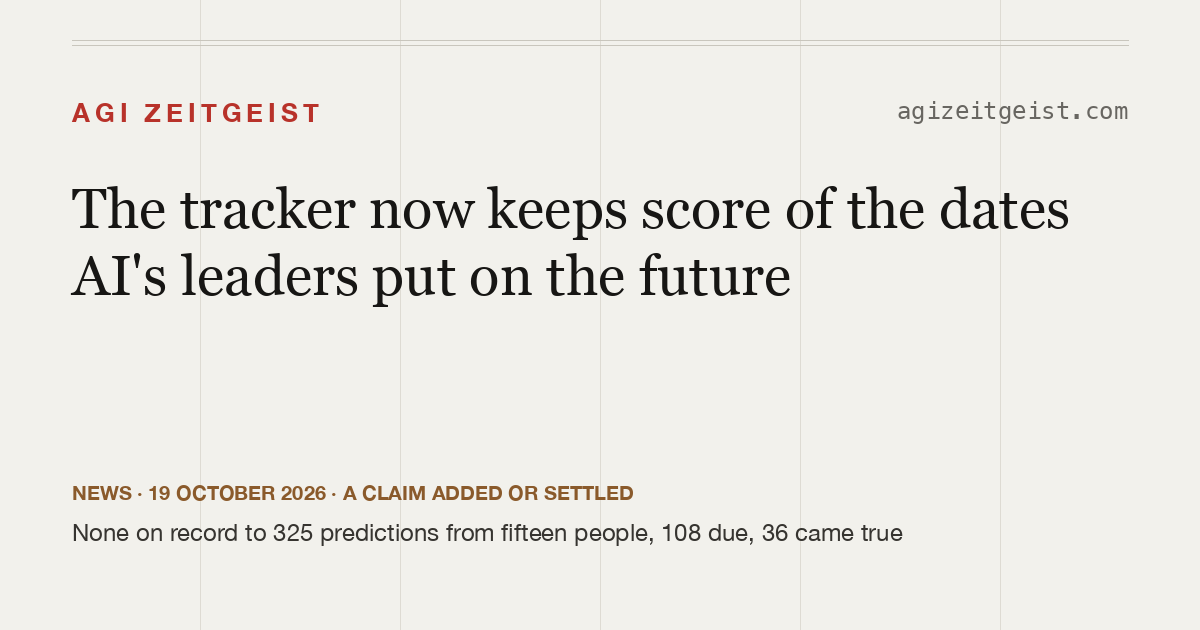
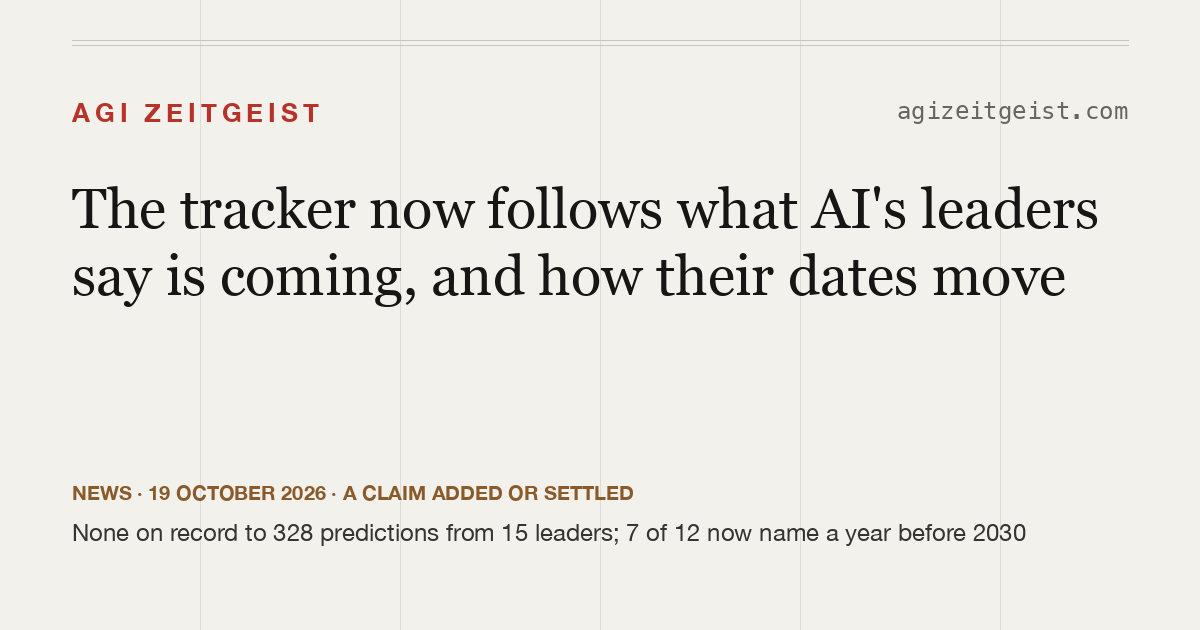
2026-10-20: the claims-ledger news post rewritten around the reframe (amendment A31, John's rulings of 2026-10-19 and 2026-10-20): the ledger records what the industry's leaders predict and how their dates move, beside the long-time thinkers, and is not a scorecard. It opens on Jensen Huang's five y

Changed region(s): [[0.0617, 0.2714, 0.925, 0.4825], [0.4008, 0.8143, 0.8633, 0.8746]]

diff --git a/docs/news/2026-10-19-the-claims-ledger-opens.md b/docs/news/2026-10-19-the-claims-ledger-opens.md
@@ -1,11 +1,11 @@
 ---
-title: The tracker now keeps score of the dates AI's leaders put on the future
+title: The tracker now follows what AI's leaders say is coming, and how their dates move
 date: 2026-10-19
 kind: claim
-summary: The people who run the AI companies keep telling us when things will happen, and hardly anyone goes back to check. This tracker now keeps a ledger of the dated predictions fifteen of them have made in public, and checks each one when its date comes.
-records: [A27, A30]
+summary: The people building AI keep telling us when it will match us, and their dates keep moving. I now keep a dated record of what fifteen of them predict, in their own words, beside the long-time thinkers who have watched the question for decades.
+records: [A27, A30, A31]
 before: "None on record"
-after: "325 predictions from fifteen people, 108 due, 36 came true"
+after: "328 predictions from 15 leaders; 7 of 12 now name a year before 2030"
 sources:
   - label: The claims page
     url: https://agizeitgeist.com/claims/
@@ -13,36 +13,38 @@ sources:
     url: https://agizeitgeist.com/docs/claims-ledger-method
   - label: Every prediction, as a table
     url: https://agizeitgeist.com/data/claims.csv
-  - label: The changelog entries that set up the ledger
+  - label: What the ledger is for, and who it covers
     url: https://agizeitgeist.com/docs/amendments
 ---
 
-In April 2019, at an event for [Tesla](https://en.wikipedia.org/wiki/Tesla,_Inc.)'s investors, [Elon Musk](https://en.wikipedia.org/wiki/Elon_Musk) said: "next year for sure we will have over a million Robo taxis on the road." He added that regulators might not approve them everywhere. Tesla ran no driverless taxis that year. By Musk's own account, its first paid rides without a safety monitor on board came in January 2026, in Austin, Texas. The million has not come ([the claim and its verdict](/claims/#2019-04-22-musk-million-robotaxis-next-year)).
+In March 2024, at an economics summit at [Stanford University](https://en.wikipedia.org/wiki/Stanford_University), [Jensen Huang](https://en.wikipedia.org/wiki/Jensen_Huang), who runs the chipmaker [Nvidia](https://www.nvidia.com/), talked about artificial general intelligence, or AGI: machines that can do the thinking people do. If it meant passing every test we could set a computer, he said, "I'm guessing in 5 years time we'll do well on every single one of them" ([the prediction](/claims/#2024-03-01-huang-ai-does-well-on-every-human-test-five-years)). On 6 September 2026, congratulating [OpenAI](https://openai.com/) on a new model trained on Nvidia's chips, he posted: "AGI has arrived" ([his post](https://x.com/JensenHuang/status/2096700264569090384)). In two and a half years, his own sense of where we stand had gone from five years away to here.
 
-The year passed, and the forecast was left behind. This site, the AGI Zeitgeist Tracker, asks how close we are to the singularity, the idea that machines will one day get smarter so fast that the world changes faster than anyone can keep up with ([the home page](/)). It now goes back for forecasts like Musk's.
+Moments like that are why I now keep a record of what the industry's leaders say.
 
-## Why keep score
+## Two voices
 
-The people who run the companies building the most powerful AI put dates on the future all the time, often to the people who act on them. Twenty-eight of the predictions gathered so far were made on companies' quarterly calls with investors ([every prediction, as a table](/data/claims.csv)). Even warnings come with dates. [Dario Amodei](https://en.wikipedia.org/wiki/Dario_Amodei), who runs [Anthropic](https://www.anthropic.com/), told a US Senate committee in July 2023 that, without safeguards, the AI systems expected within two to three years posed "a substantial risk" of supplying every missing step someone would need to make a biological weapon ([his written testimony](https://www.judiciary.senate.gov/imo/media/doc/2023-07-26_-_testimony_-_amodei.pdf)). Investors, lawmakers and the rest of us plan around dates like these. Once one passes, hardly anyone checks, so a wrong forecast costs its maker nothing.
+I built this tracker to follow the mood of the time around AGI and the singularity, the idea that machines will one day get smarter so fast that the world changes faster than anyone can keep up with ([the home page](/)). Two kinds of people shape that mood. One is the long-time thinkers, academics and writers who have argued about it for decades. The other is the people now running the companies that build it, whose dates tend to run ahead of everyone else's. Both are worth hearing. The thinkers give the long view; the leaders are the ones making it happen, and what they say is the clearest sign of what the industry expects right now.
 
 ## What the ledger does
 
-So the tracker now keeps [a ledger](/claims/) meant to hold every dated prediction fifteen of these people have made in public: the heads of the companies that build the leading AI models or their chips, and their chief scientists. Each is in the speaker's own words, checked against the recording, post or transcript where it was said. The ledger also writes down, in advance, what would have to happen for each to come true, so the verdict cannot be bent afterwards.
+The [claims page](/claims/) is the leaders' voice. It holds 328 dated predictions from fifteen people who run the companies building the most advanced AI or the chips it runs on, each in their own words, dated, and linked to where it was said. I read them for what they predict now and how that has shifted. It is not a scorecard. Where a prediction's date has passed, a small note on it says what happened, and I don't add those notes up ([how the ledger works](/docs/claims-ledger-method)).
 
-## Two harder cases
+## What they say now
 
-Some predictions can never be checked. In September 2024 [Sam Altman](https://en.wikipedia.org/wiki/Sam_Altman), who runs [OpenAI](https://openai.com/), wrote that "It is possible that we will have superintelligence in a few thousand days", adding that it might take longer ([the claim](/claims/#2024-09-23-altman-superintelligence-few-thousand-days)). It sounds like a date, but the essay does not say what superintelligence is or how anyone would know it had arrived, so nobody could ever show it wrong. The ledger marks it as a prediction that cannot be tested, and many others share the flaw.
+Twelve of the fifteen have put a date on AGI or something beyond it. Seven of those twelve name a year before 2030 ([the claims page](/claims/)). Among the experts the tracker follows are seven long-time thinkers who don't run AI companies. Line up each one's latest guess, and the one in the middle is 2030. (Two of them worked at OpenAI earlier in their careers, so they are not wholly outsiders, and the page says so.) So more than half of the leaders who give a date name a year earlier than the thinkers' middle one. Each leader uses their own words for what is coming: AGI, superintelligence, or, for [Dario Amodei](https://en.wikipedia.org/wiki/Dario_Amodei) of [Anthropic](https://www.anthropic.com/), what he calls "Powerful AI". They don't all mean the same thing, so the page gives each person's term beside their date.
 
-Other dates move. In April 2024 Musk said an AI smarter than the smartest human would come "probably end of next year", or within two years ([the claim](/claims/#2024-04-08-musk-agi-smarter-than-smartest-human)). In January 2026, at the [World Economic Forum](https://www.weforum.org/) in Davos, he said it might come "by the end of this year", and "no later than next year" ([the later claim](/claims/#2026-01-22-musk-ai-smarter-than-any-human-end-of-year)). The ledger keeps both, or a forecaster could push a date forward forever. The first is judged at the end of 2026, the second at the end of 2027.
+Three have never put a date on it: [Arthur Mensch](https://en.wikipedia.org/wiki/Arthur_Mensch) of [Mistral AI](https://mistral.ai/), [Mark Zuckerberg](https://en.wikipedia.org/wiki/Mark_Zuckerberg) of [Meta](https://www.meta.com/about/) and [Satya Nadella](https://en.wikipedia.org/wiki/Satya_Nadella) of [Microsoft](https://www.microsoft.com/). Not naming a year is not the same as saying nothing, so the page quotes their latest words instead. Mensch calls AGI "rather a direction than a point of arrival". Zuckerberg told his company's conference in September 2026 that "Delivering personal superintelligence is now within reach" ([the claims page](/claims/)).
 
-## What the first numbers show
+## How the dates move
 
-The ledger holds 325 predictions. 108 have reached their date: 36 came true, 55 did not, and 17 could never be checked. The other 217 are still to come ([the claims page](/claims/)). The 36 are not a score. They come from the predictions gathered to open the ledger, which may lean toward the famous ones, and a score built from famous predictions would mostly show which ones are easy to find. So nobody gets a hit rate, the share of their checkable predictions that came true, until their public words have been searched year by year and at least five of their predictions are due ([how the ledger works](/docs/claims-ledger-method)). A hit is not always foresight: Altman's promise in March 2024 that OpenAI would "release an amazing new model this year" came true ([the claim](/claims/#2024-03-18-altman-amazing-new-model-this-year)), but it was a promise about his own company's plans.
+In April 2024 [Elon Musk](https://en.wikipedia.org/wiki/Elon_Musk), who founded the AI company [xAI](https://x.ai/) (since renamed SpaceXSI), said an AI smarter than the smartest human would come "probably end of next year" ([the prediction](/claims/#2024-04-08-musk-agi-smarter-than-smartest-human)). In January 2026, at the [World Economic Forum](https://www.weforum.org/) in Davos, he said it might come "by the end of this year", and "no later than next year" ([the later prediction](/claims/#2026-01-22-musk-ai-smarter-than-any-human-end-of-year)). The page keeps both, so the move shows.
+
+Across the leaders, since 2023, five have brought their dates nearer, three have held them, and two have pushed them later ([the claims page](/claims/)). The page draws each person's forecasts over time, so you can see how each person's dates have moved.
 
 ## What happens next
 
-The predictions still to come get their verdicts as their dates arrive, and new predictions go in as they are made. One to watch is Musk's first deadline for an AI smarter than the smartest human, at the end of 2026. You can follow it on [the claims page](/claims/), which shows each person's counts and links every prediction to where it was said.
+New predictions go on the page as the fifteen make them, and the picture of what the industry expects moves with them. The question I will keep asking is whether the two voices, the builders and the long-time thinkers, are drawing together or apart. You can watch it on [the claims page](/claims/), where every prediction links to the moment it was said.
 
-*Widened 2026-10-19:* this post first covered 30 predictions by Altman and Musk; I widened it the same day to all fifteen people ([the changelog](/docs/amendments)).
+*Widened 2026-10-19:* this post first covered 30 predictions by [Sam Altman](https://en.wikipedia.org/wiki/Sam_Altman) and Musk; I widened it the same day to all fifteen people ([who the ledger covers](/docs/amendments)).
 
-*Corrected 2026-10-19:* after an independent check, I moved one verdict, Altman's goal of an automated AI research intern by September 2026, from "came true" to "cannot be tested" ([the claim](/claims/#2025-10-29-altman-automated-research-intern-by-september-2026)).
+*Rewritten 2026-10-20:* the first version of this post counted how many predictions had come true. I have since decided the ledger records what the leaders predict, not whether they were right, so the counts are gone ([what the ledger is for](/docs/amendments)).
